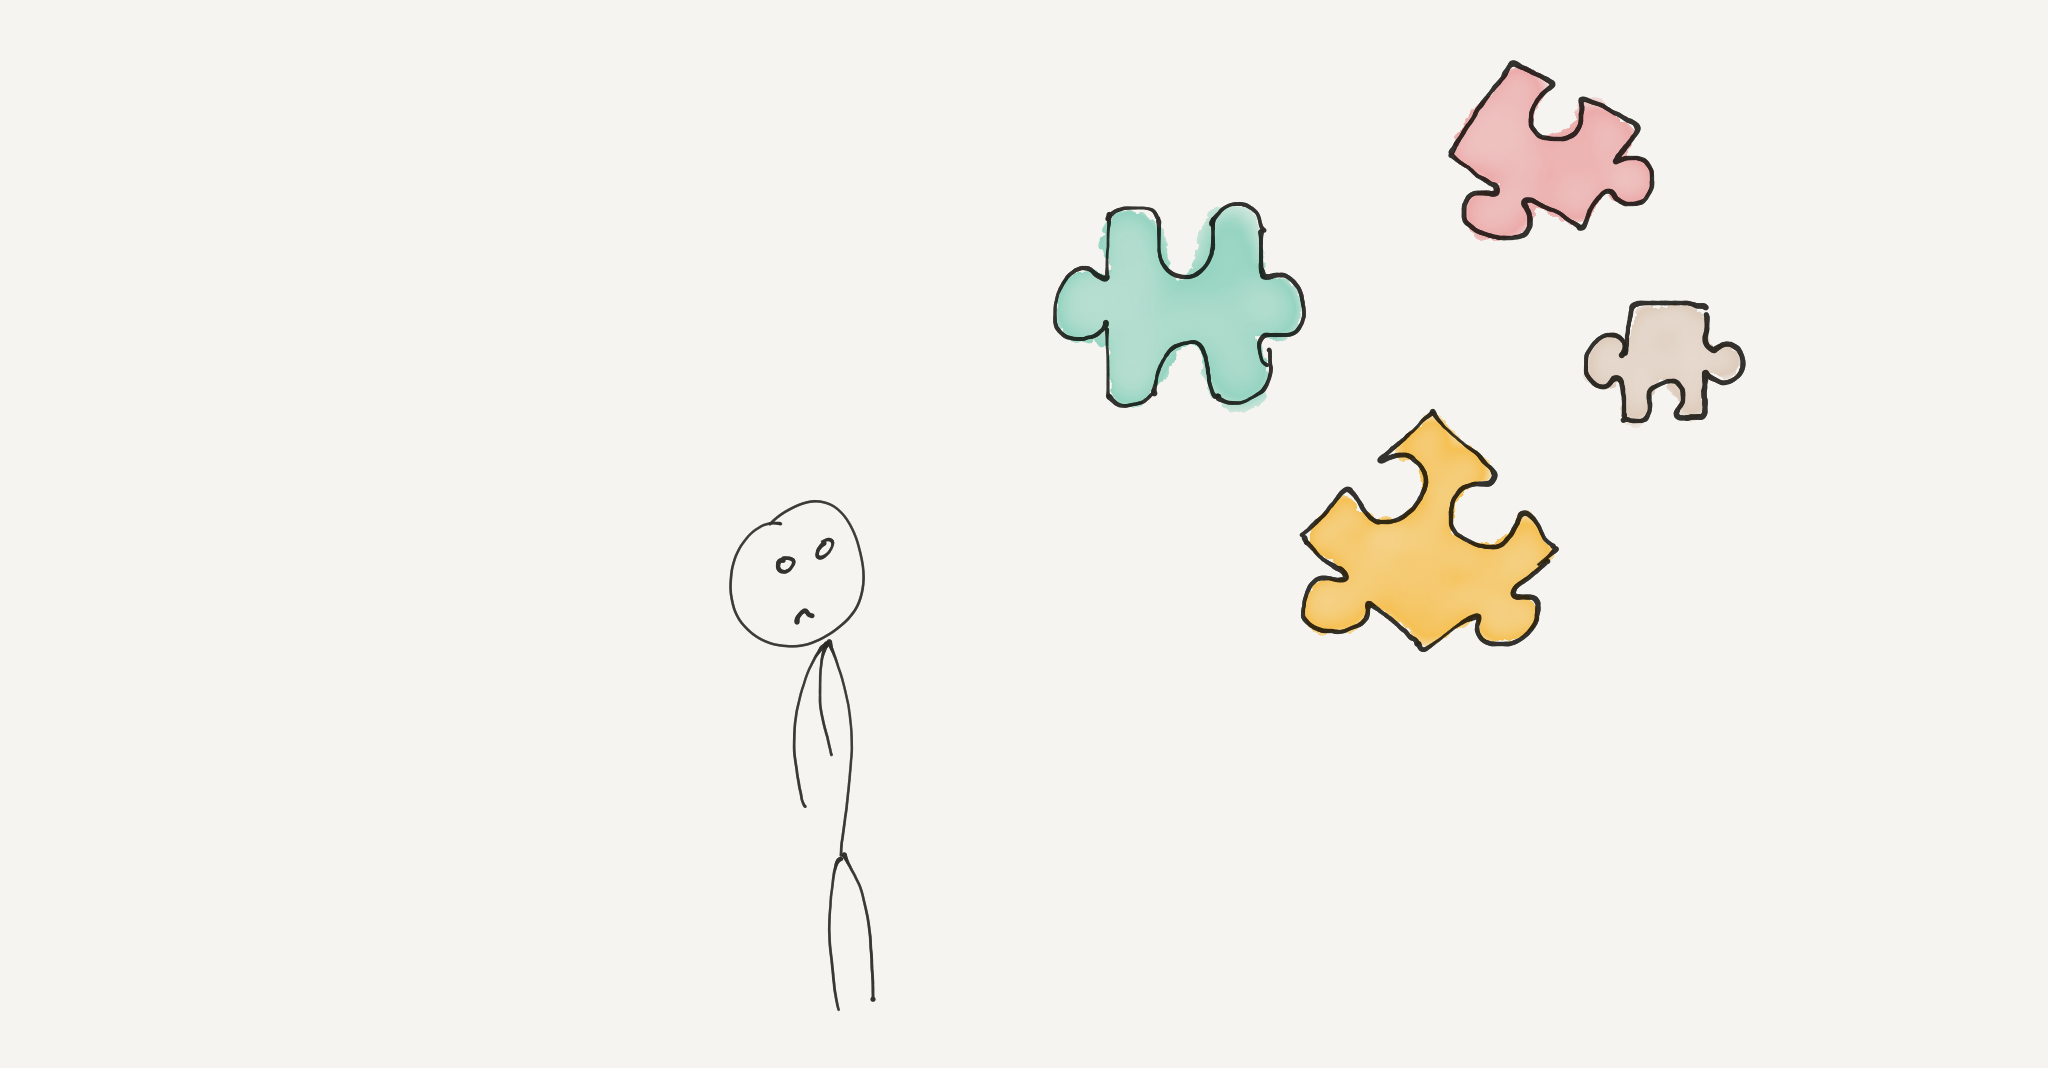
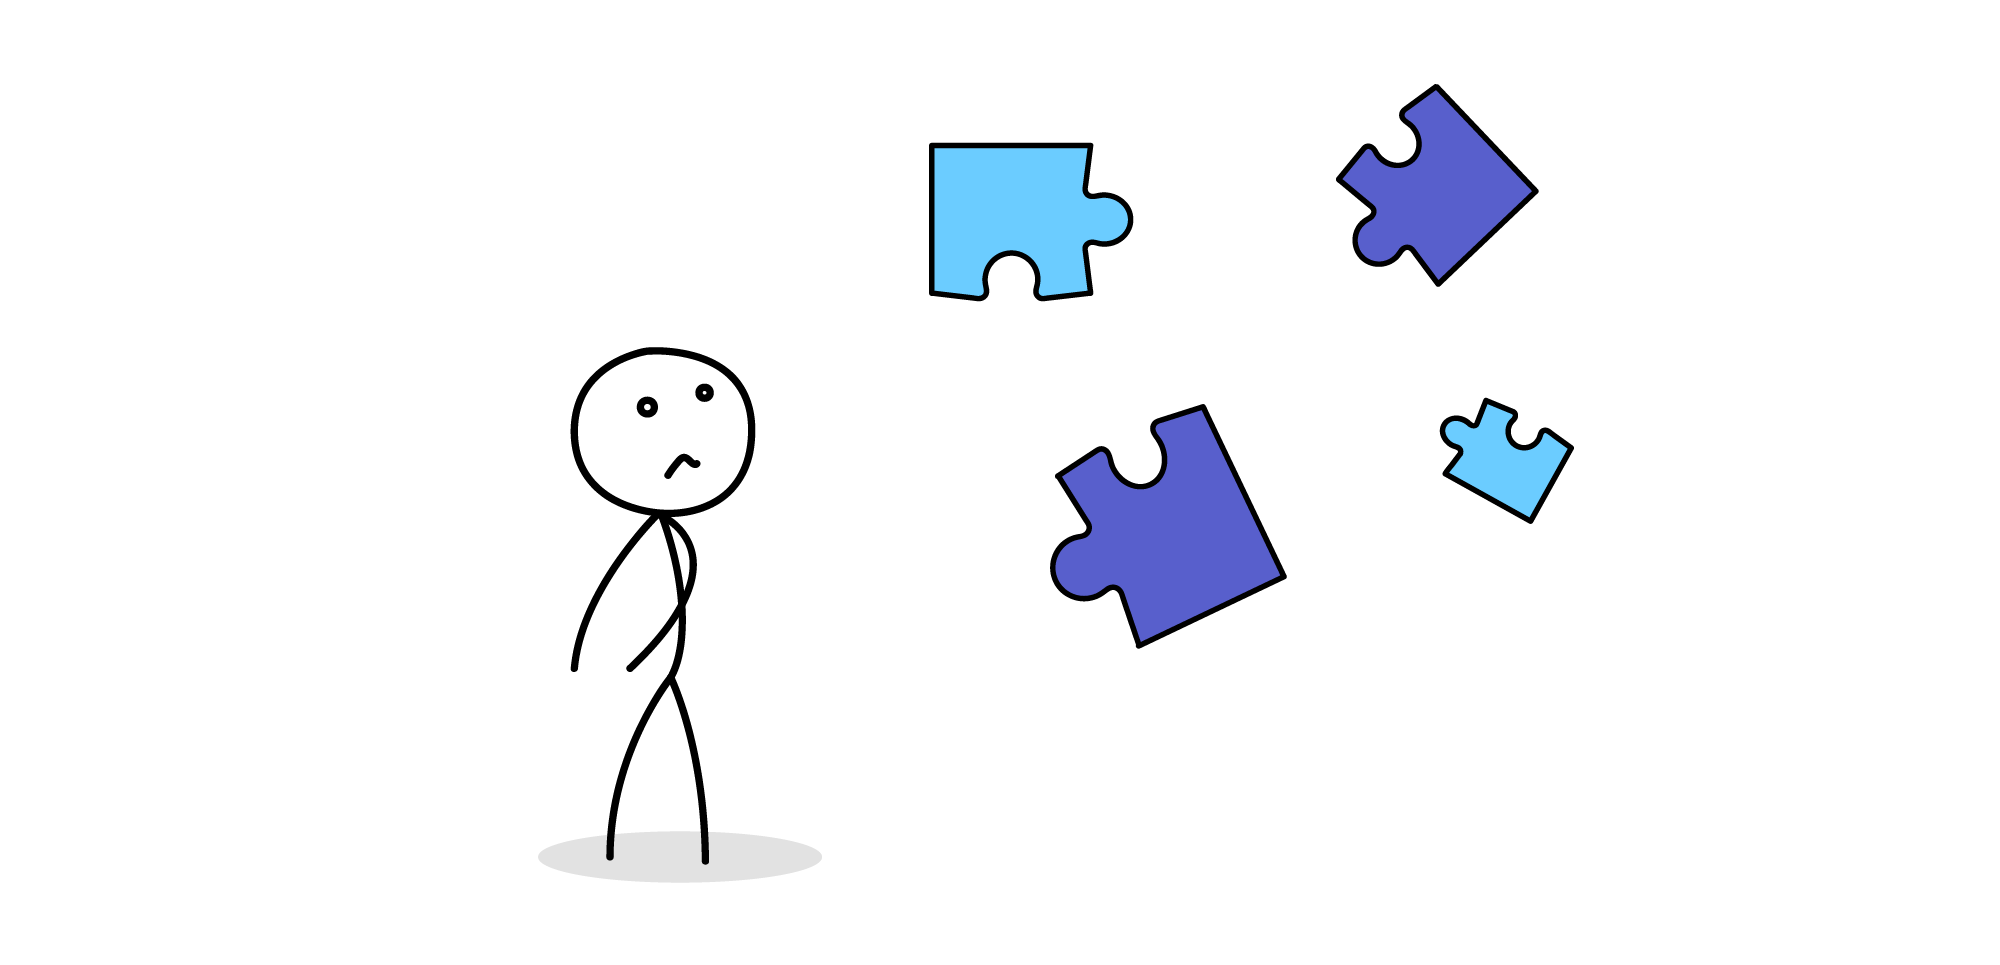
deploy: a5a233be468b8ca1f2166e5c99ef95e42e792979

diff --git a/ru/amp/learning.html b/ru/amp/learning.html
@@ -206,7 +206,7 @@
 
 <p>В первую очередь необходимо чётко заметить и осознать появляющееся сопротивление разума. Отнеситесь к своему телу и разуму как к научному эксперименту: они подают вам — наблюдателю — какие-то сигналы, они реагируют на действия и окружение.</p>
 
-<p><amp-img src="/assets/images/learning/learning_1.png" alt="Мысли и их разнообразие" width="2048" height="896" layout="responsive"><noscript><img src="/assets/images/learning/learning_1.png" alt="Мысли и их разнообразие" width="2048" height="896"></noscript></amp-img></p>
+<p><amp-img src="/assets/images/learning/learning_1.png" alt="Мысли и их разнообразие" width="2000" height="965" layout="responsive"><noscript><img src="/assets/images/learning/learning_1.png" alt="Мысли и их разнообразие" width="2000" height="965"></noscript></amp-img></p>
 
 <p>Постарайтесь замечать или даже записывать условия, при которых возникают подобные мысли. На ментальное состояние влияет куча факторов, в том числе физическое состояние, рабочее окружение, сон, питание, стресс, цели, отношения с людьми и так далее.</p>
 
@@ -220,7 +220,7 @@
 
 <p><a href="https://en.wikipedia.org/wiki/Carol_Dweck">Кэрол Дуэк</a>, психолог из Стэнфорда, выявила два типа мышления у людей: фиксированное мышление (fixed mindset) и мышление роста (growth mindset).</p>
 
-<p><amp-img src="/assets/images/learning/learning_2.png" alt="Виды мышления" width="2048" height="927" layout="responsive"><noscript><img src="/assets/images/learning/learning_2.png" alt="Виды мышления" width="2048" height="927"></noscript></amp-img></p>
+<p><amp-img src="/assets/images/learning/learning_2.png" alt="Виды мышления" width="2000" height="965" layout="responsive"><noscript><img src="/assets/images/learning/learning_2.png" alt="Виды мышления" width="2000" height="965"></noscript></amp-img></p>
 
 <p>Под мышлением подразумевается набор установок, идей и концепций, которыми руководствуется разум.</p>
 
@@ -264,7 +264,7 @@
 
 <p>Забудьте миф о трудолюбивом гении, который закопался в библиотеке и вышел оттуда специалистом. Лучший способ попасть в перманентный ступор — изолироваться от других учащихся и от учителей.</p>
 
-<p><amp-img src="/assets/images/learning/learning_3.png" alt="Процесс обучения" width="2048" height="925" layout="responsive"><noscript><img src="/assets/images/learning/learning_3.png" alt="Процесс обучения" width="2048" height="925"></noscript></amp-img></p>
+<p><amp-img src="/assets/images/learning/learning_3.png" alt="Процесс обучения" width="2000" height="965" layout="responsive"><noscript><img src="/assets/images/learning/learning_3.png" alt="Процесс обучения" width="2000" height="965"></noscript></amp-img></p>
 
 <ol>
   <li>
@@ -285,7 +285,7 @@
   <li>Изучаю-изучаю, но все равно ничего не понятно!</li>
 </ul>
 
-<p><amp-img src="/assets/images/learning/learning_4.png" alt="Пазлы" width="2048" height="1068" layout="responsive"><noscript><img src="/assets/images/learning/learning_4.png" alt="Пазлы" width="2048" height="1068"></noscript></amp-img></p>
+<p><amp-img src="/assets/images/learning/learning_4.png" alt="Пазлы" width="2000" height="965" layout="responsive"><noscript><img src="/assets/images/learning/learning_4.png" alt="Пазлы" width="2000" height="965"></noscript></amp-img></p>
 
 <p>Также советую прочитать статью Кирилла Мокевнина об <a href="https://ru.hexlet.io/blog/posts/how-to-read-books">эффективном чтении профессиональной литературы</a>.</p>
 

diff --git a/amp/learning.html b/amp/learning.html
@@ -206,7 +206,7 @@
 
 <p>First of all, it’s necessary to sharpen your awareness of emerging mental resistance. Treat your body and mind as a scientific experiment: they give you, the observer, some signals, then they react to actions and environment.</p>
 
-<p><amp-img src="/assets/images/learning/learning_1.png" alt="Мысли и их разнообразие" width="2048" height="896" layout="responsive"><noscript><img src="/assets/images/learning/learning_1.png" alt="Мысли и их разнообразие" width="2048" height="896"></noscript></amp-img></p>
+<p><amp-img src="/assets/images/learning/learning_1_en.png" alt="Мысли и их разнообразие" width="2000" height="965" layout="responsive"><noscript><img src="/assets/images/learning/learning_1_en.png" alt="Мысли и их разнообразие" width="2000" height="965"></noscript></amp-img></p>
 
 <p>Try to notice or even write down the conditions under which such thoughts typically occur. A lot of things affect the mental state, including physical condition, work environment, sleep, nutrition, stress, goals, relationships, etc.</p>
 
@@ -220,7 +220,7 @@
 
 <p><a href="https://en.wikipedia.org/wiki/Carol_Dweck">Carol Dweck</a>, Stanford University psychologist, identified two core mindsets: fixed mindset and growth mindset.</p>
 
-<p><amp-img src="/assets/images/learning/learning_2.png" alt="Виды мышления" width="2048" height="927" layout="responsive"><noscript><img src="/assets/images/learning/learning_2.png" alt="Виды мышления" width="2048" height="927"></noscript></amp-img></p>
+<p><amp-img src="/assets/images/learning/learning_2.png" alt="Виды мышления" width="2000" height="965" layout="responsive"><noscript><img src="/assets/images/learning/learning_2.png" alt="Виды мышления" width="2000" height="965"></noscript></amp-img></p>
 
 <p>Mindset is a collection of beliefs, ideas and concepts held by oneself.</p>
 
@@ -264,7 +264,7 @@
 
 <p>Forget the myth that hard work and tons of books you’ve read will make you an expert. The shortest way to get into learning stagnation is to isolate yourself from other students and teachers.</p>
 
-<p><amp-img src="/assets/images/learning/learning_3.png" alt="Процесс обучения" width="2048" height="925" layout="responsive"><noscript><img src="/assets/images/learning/learning_3.png" alt="Процесс обучения" width="2048" height="925"></noscript></amp-img></p>
+<p><amp-img src="/assets/images/learning/learning_3.png" alt="Процесс обучения" width="2000" height="965" layout="responsive"><noscript><img src="/assets/images/learning/learning_3.png" alt="Процесс обучения" width="2000" height="965"></noscript></amp-img></p>
 
 <ol>
   <li>
@@ -285,7 +285,7 @@
   <li>I study a lot but that’s not really helping!</li>
 </ul>
 
-<p><amp-img src="/assets/images/learning/learning_4.png" alt="Пазлы" width="2048" height="1068" layout="responsive"><noscript><img src="/assets/images/learning/learning_4.png" alt="Пазлы" width="2048" height="1068"></noscript></amp-img></p>
+<p><amp-img src="/assets/images/learning/learning_4.png" alt="Пазлы" width="2000" height="965" layout="responsive"><noscript><img src="/assets/images/learning/learning_4.png" alt="Пазлы" width="2000" height="965"></noscript></amp-img></p>
 
 <!-- I also advise you to read Kirill Mokevnin's article on [effective reading of professional literature.](https://ru.hexlet.io/blog/posts/how-to-read-books) --->
 

diff --git a/learning/index.html b/learning/index.html
@@ -139,7 +139,7 @@ height="0" width="0" style="display:none;visibility:hidden"></iframe></noscript>
 
 <p>First of all, it’s necessary to sharpen your awareness of emerging mental resistance. Treat your body and mind as a scientific experiment: they give you, the observer, some signals, then they react to actions and environment.</p>
 
-<p><img src="/assets/images/learning/learning_1.png" alt="Мысли и их разнообразие" /></p>
+<p><img src="/assets/images/learning/learning_1_en.png" alt="Мысли и их разнообразие" /></p>
 
 <p>Try to notice or even write down the conditions under which such thoughts typically occur. A lot of things affect the mental state, including physical condition, work environment, sleep, nutrition, stress, goals, relationships, etc.</p>
 
